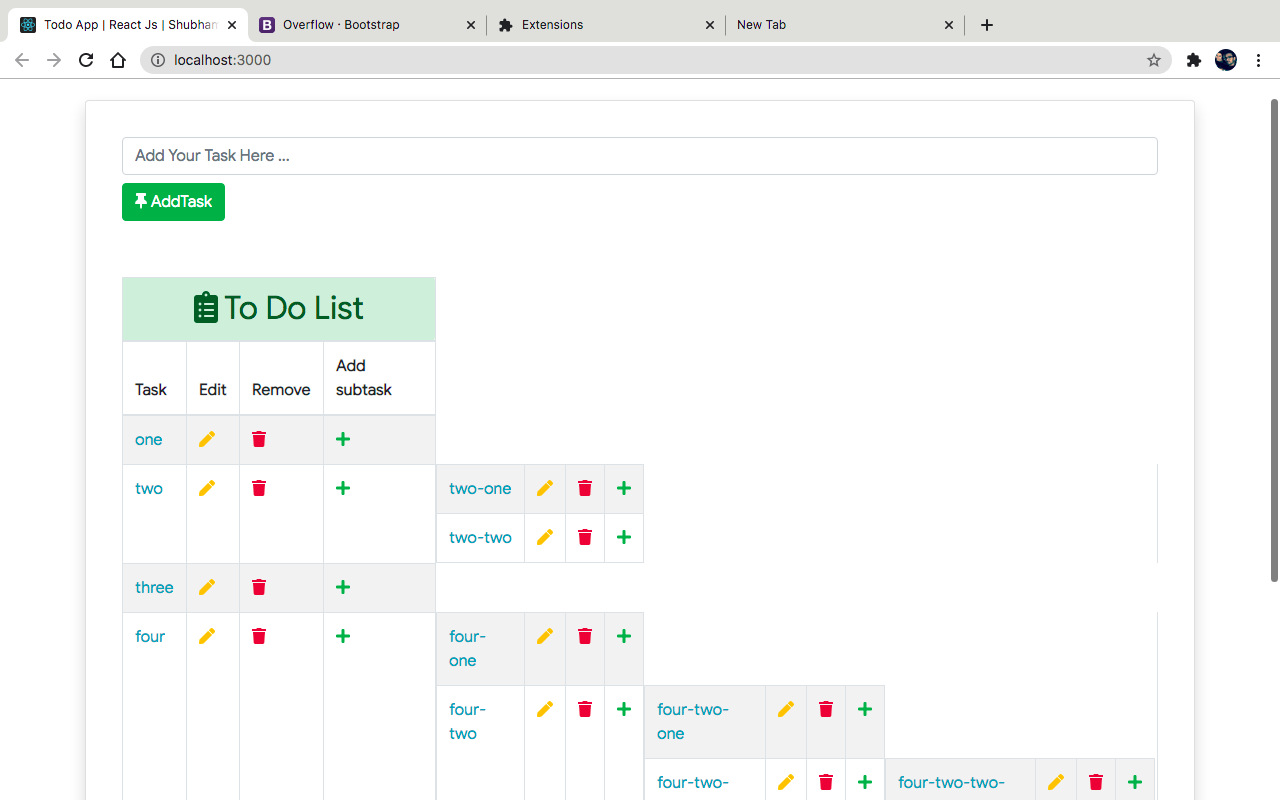
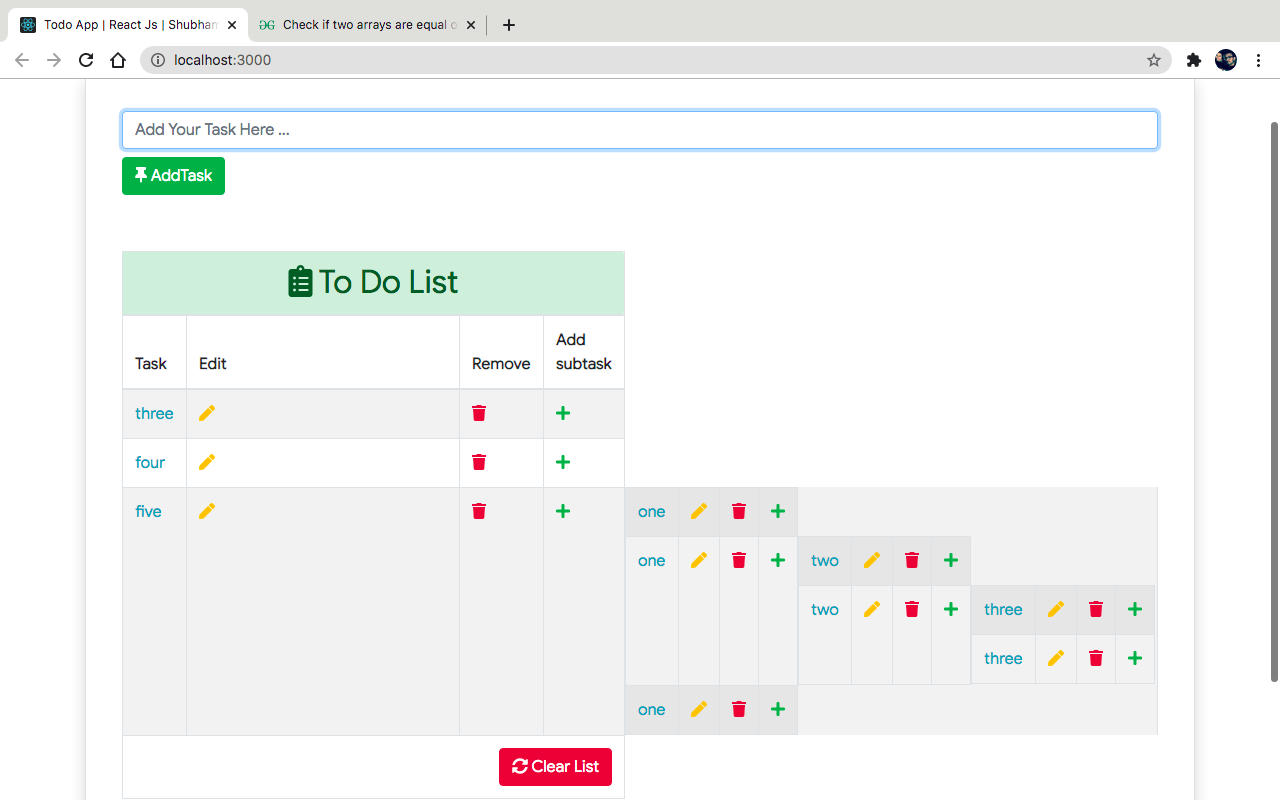
Application done

diff --git a/src/App.js b/src/App.js
@@ -34,7 +34,6 @@ class App extends Component {
 
   handleAddSubtask = (id, itemArr) => {
     const selectedItems = itemArr.find((item) => item.id === id);
-
     this.setState({
       addSubtask: true,
       parentItem: selectedItems.title,
@@ -47,7 +46,7 @@ class App extends Component {
       if (item.id === parentId) {
         if (action === 'delete') {
           delete itemArr[idx];
-        } else {
+        } else if (action === 'add') {
           item.subtasks = [
             ...item.subtasks,
             {
@@ -56,6 +55,15 @@ class App extends Component {
               subtasks: [],
             },
           ];
+        } else if (action === 'setEditText') {
+          this.setState({
+            item: item.title,
+            editItem: true,
+            id: parentId,
+          });
+        } else if (action === 'edit') {
+          console.log(item.title, this.state.item, 'man');
+          item.title = this.state.item;
         }
       }
       if (item.subtasks.length)
@@ -72,6 +80,9 @@ class App extends Component {
 
     if (this.state.addSubtask) {
       this.updateObjUtil(this.state.items, this.state.parentId, 'add');
+      updatedItem = [...this.state.items];
+    } else if (this.state.editItem) {
+      this.updateObjUtil(this.state.items, this.state.id, 'edit');
       updatedItem = [...this.state.items];
     } else {
       newItem = {
@@ -123,15 +134,7 @@ class App extends Component {
   };
 
   handleEdit = (id) => {
-    const filteredItems = this.state.items.filter((item) => item.id !== id);
-    const selectedItems = this.state.items.find((item) => item.id === id);
-
-    this.setState({
-      items: filteredItems,
-      item: selectedItems.title,
-      editItem: true,
-      id: id,
-    });
+    this.updateObjUtil(this.state.items, id, 'setEditText');
   };
 
   setTotalWidth = (width) => {
